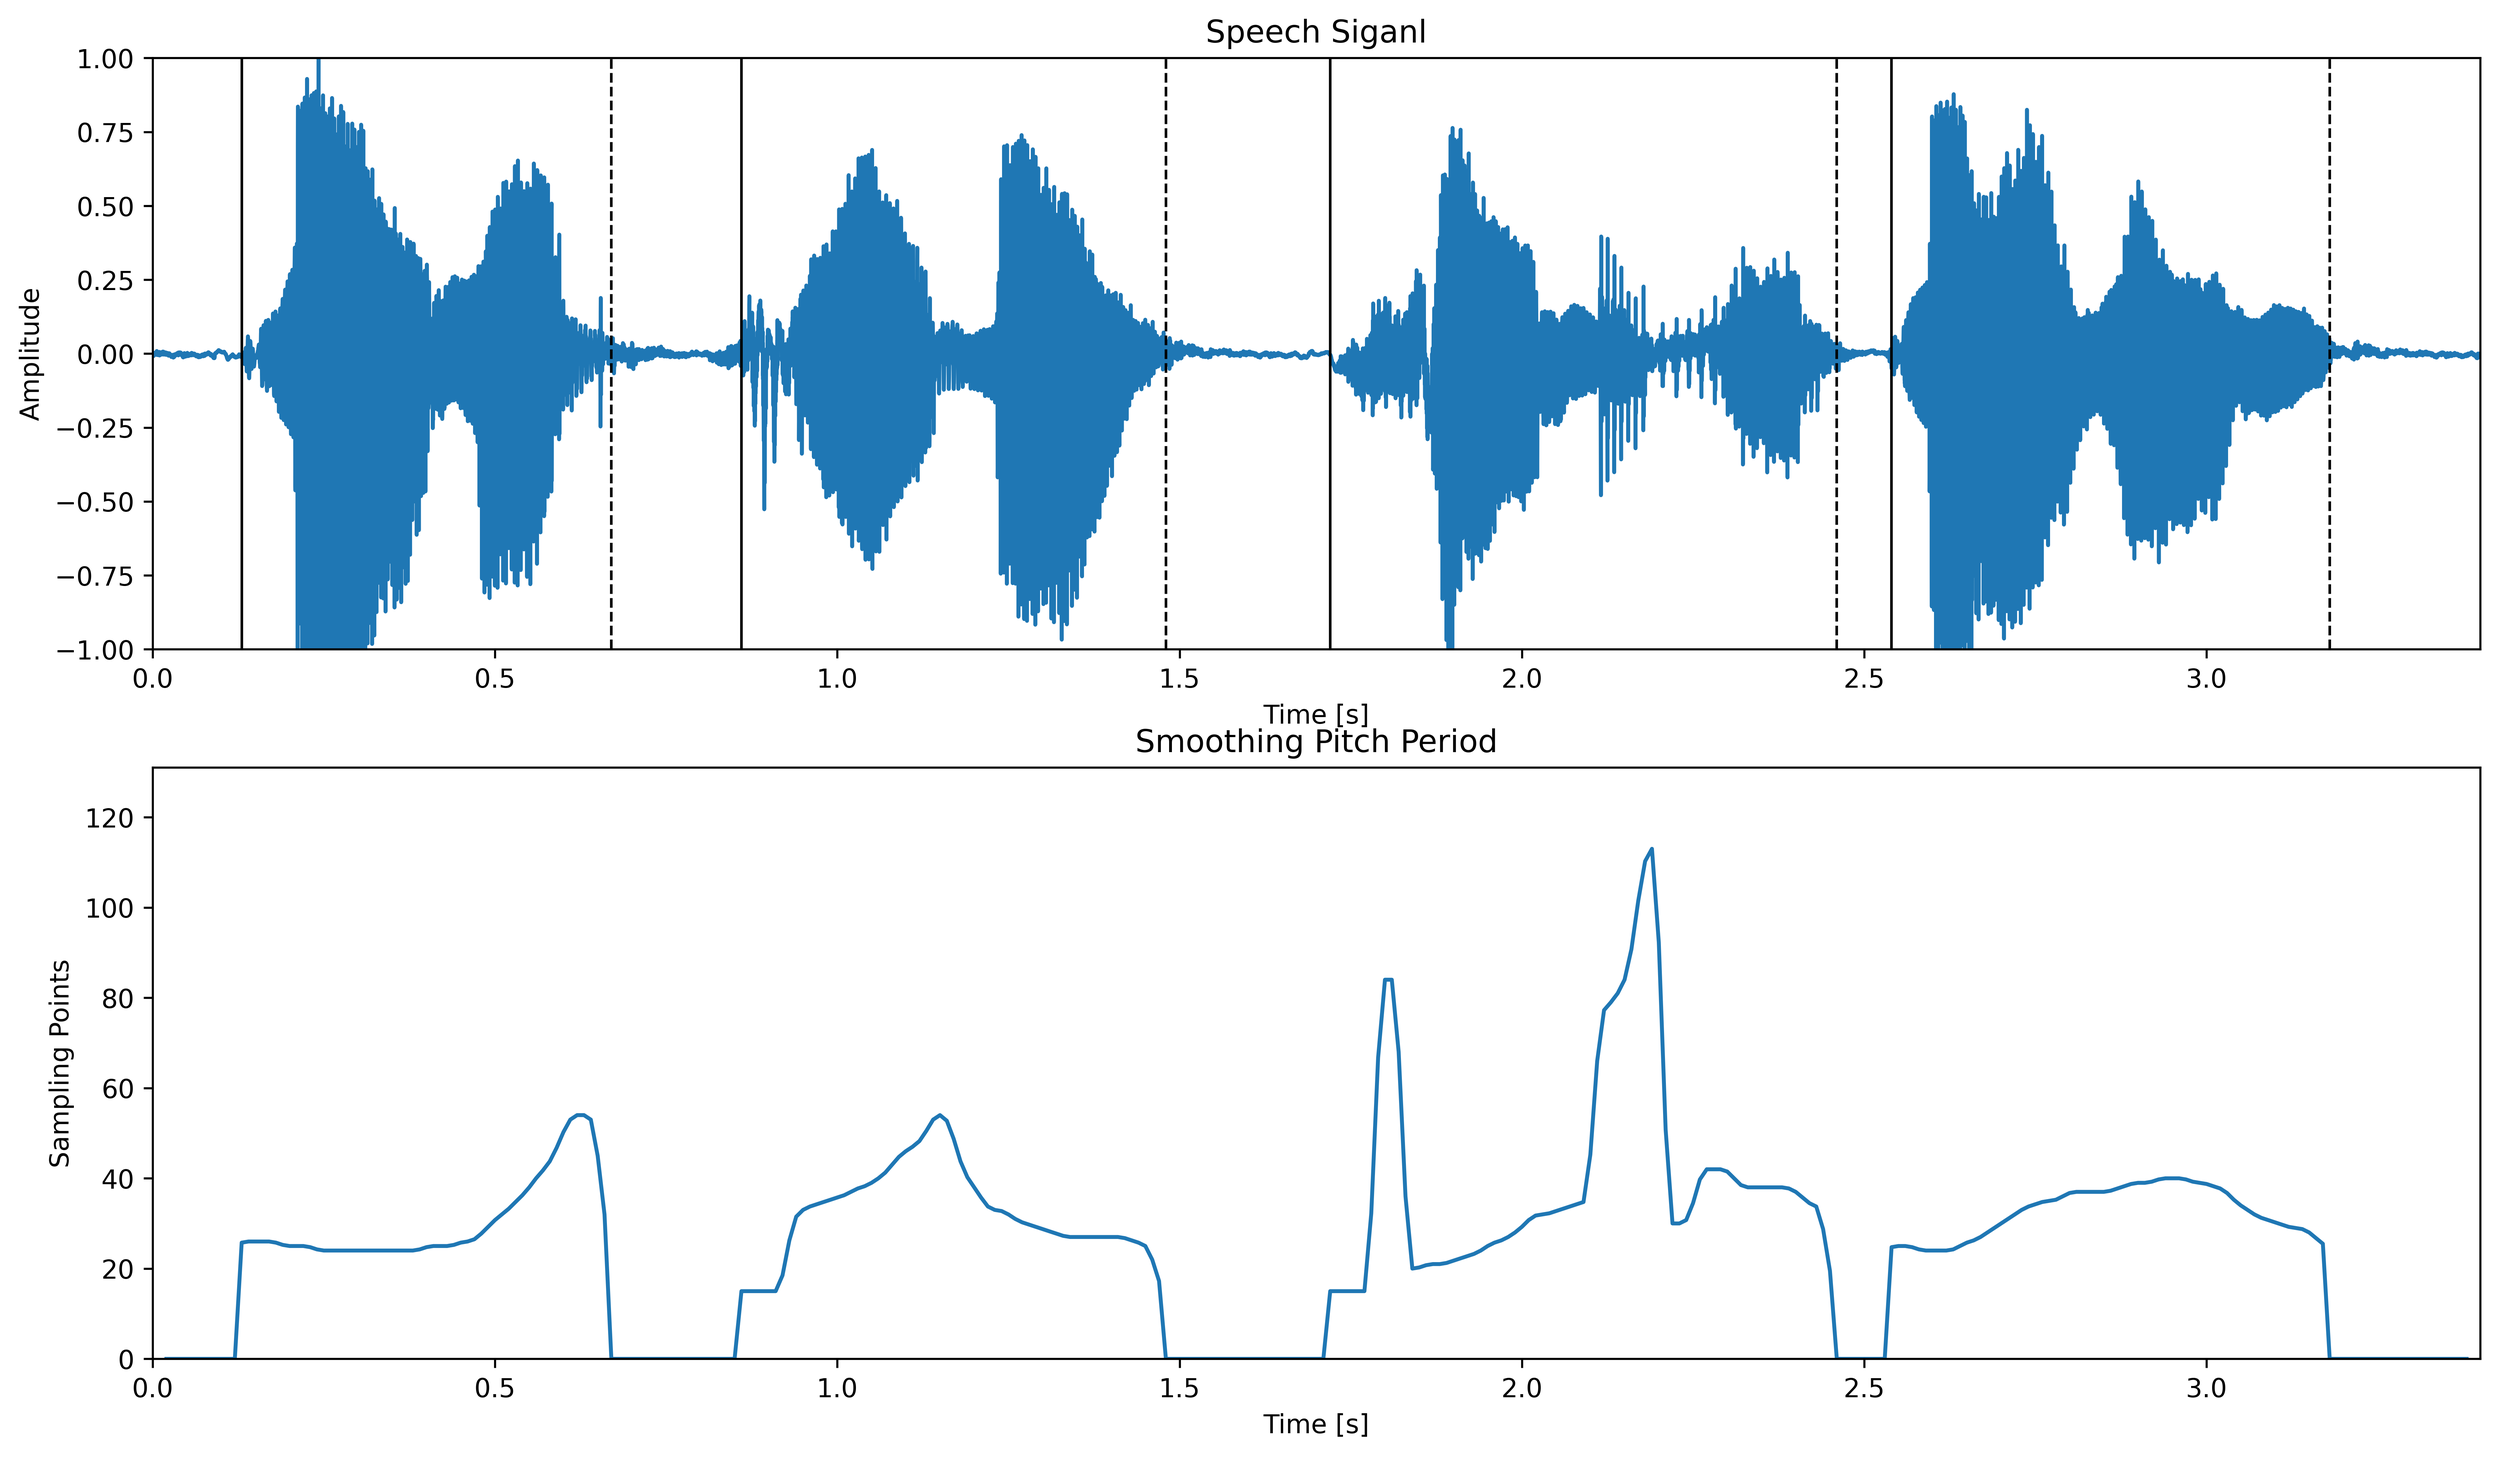
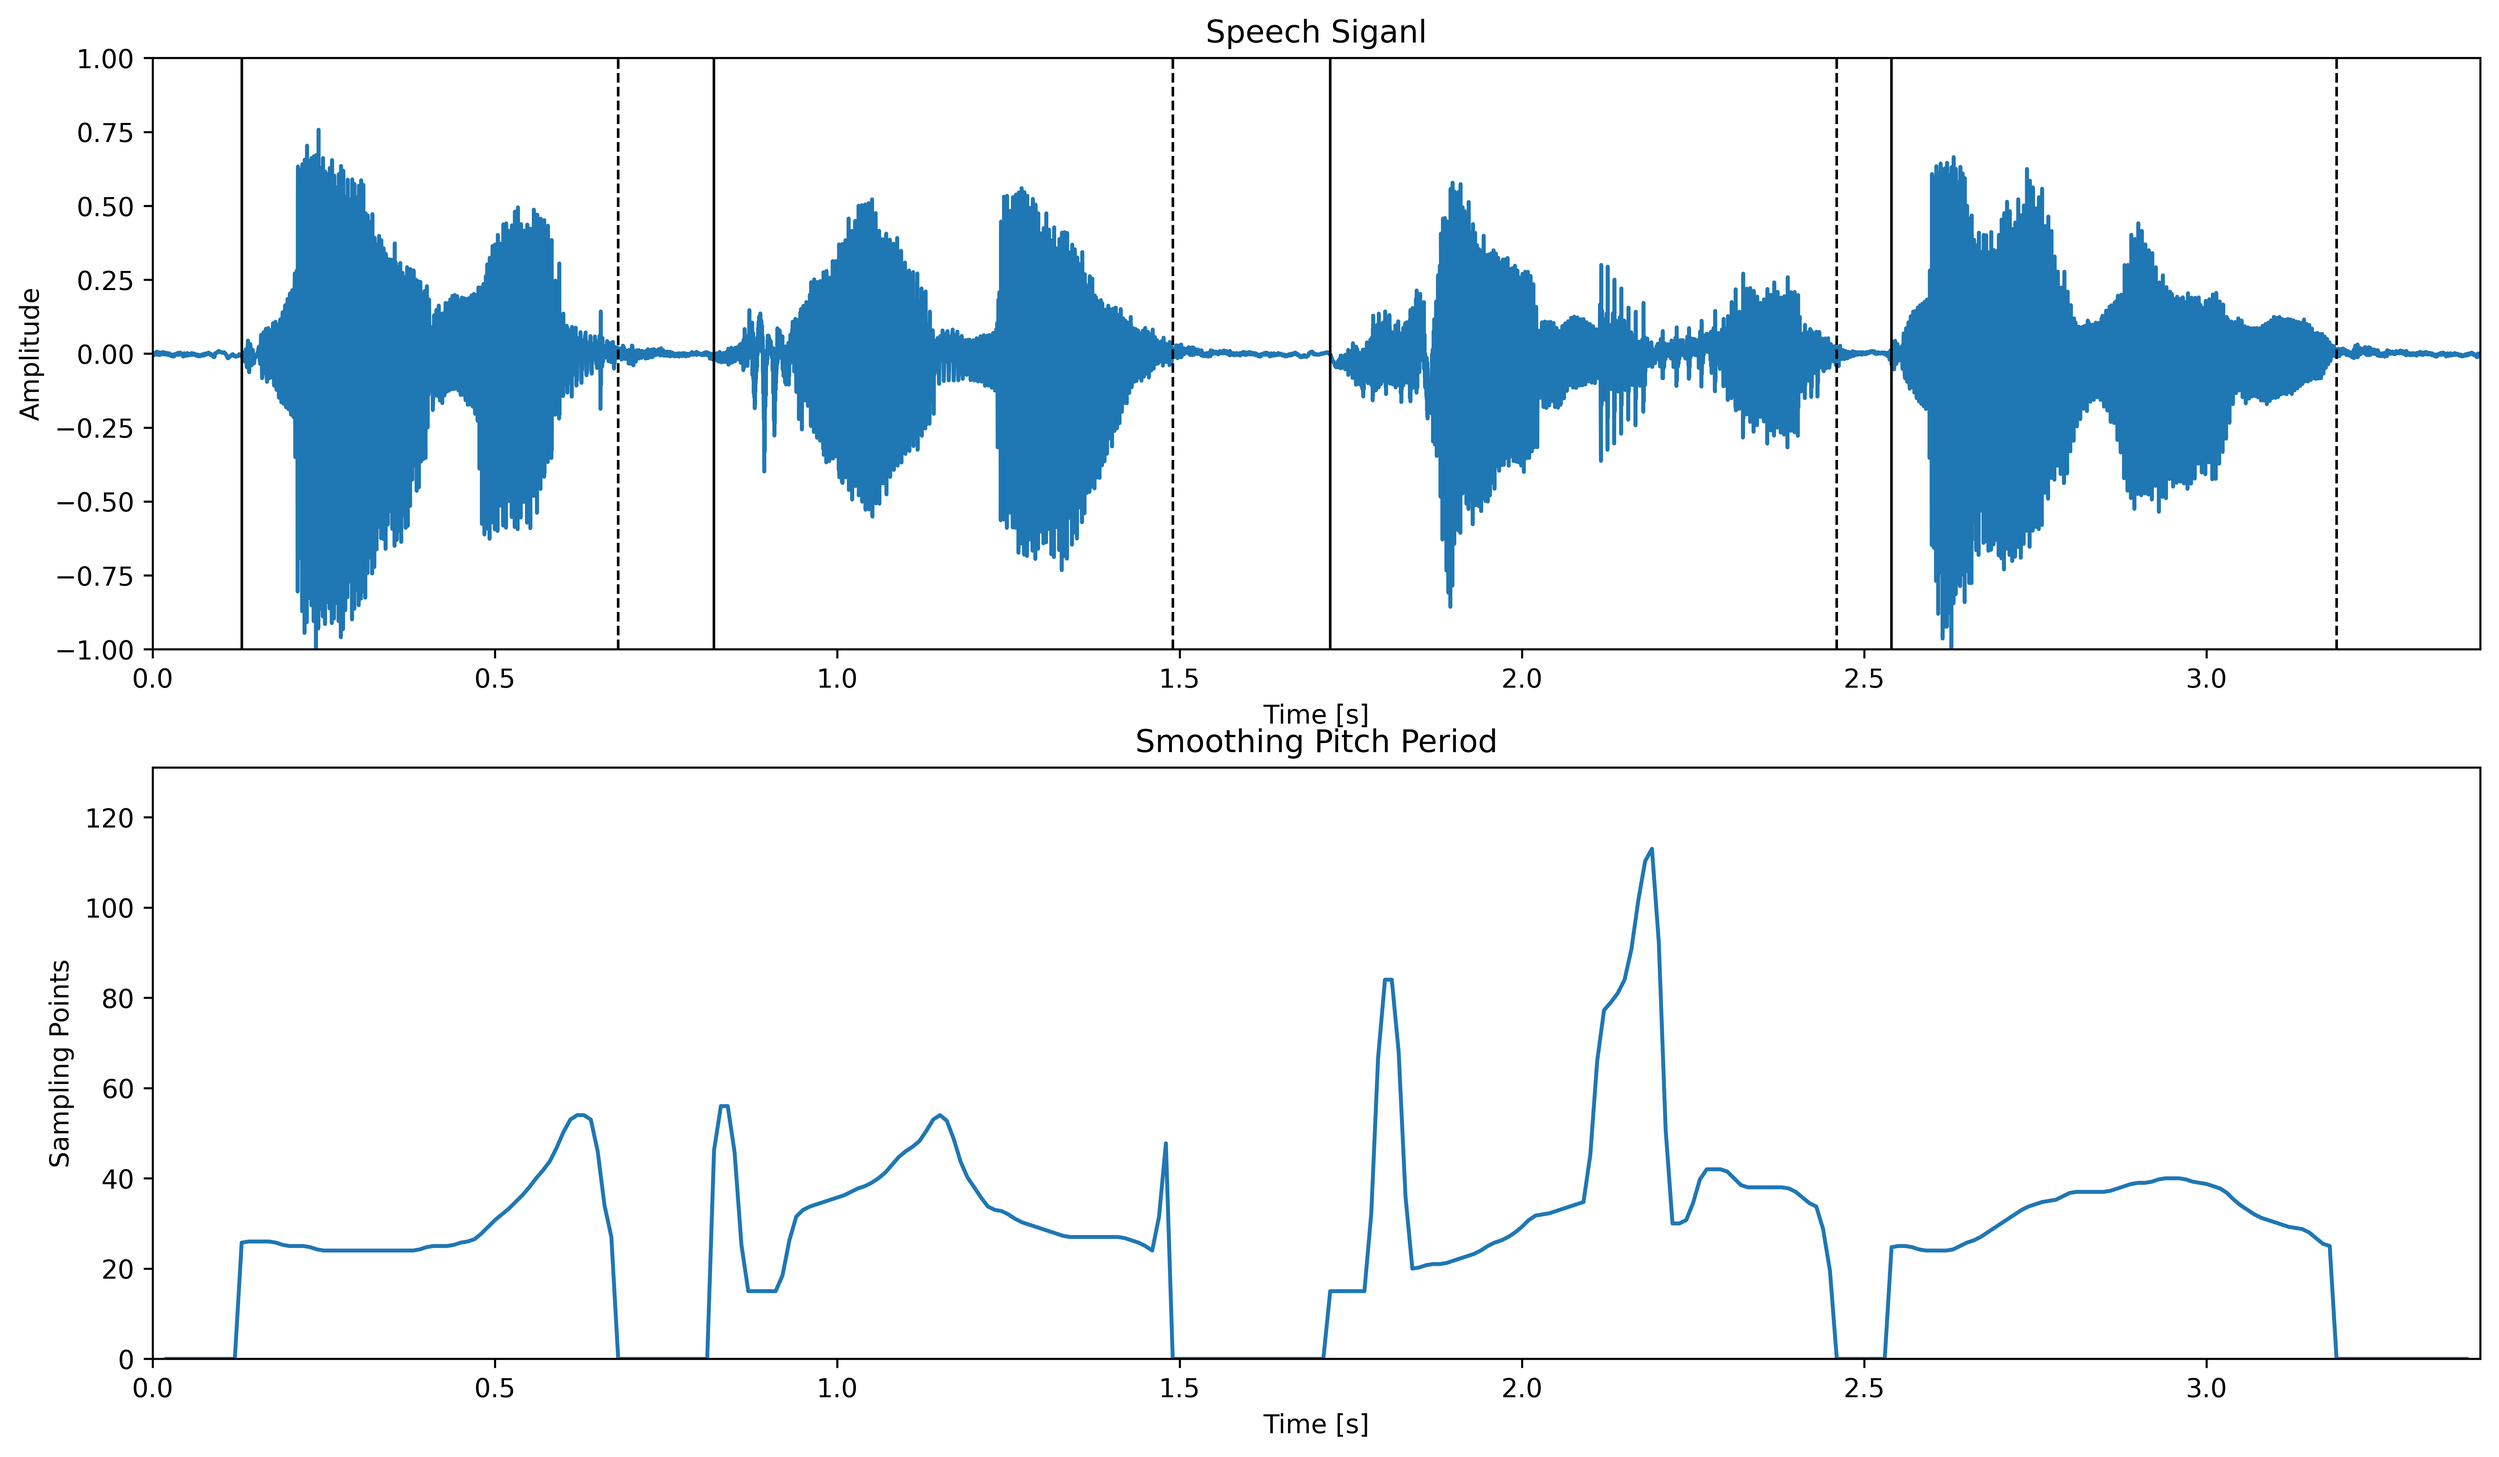
three level clip auto correlation pitch detection

diff --git a/Chapter8_PitchDetection/pr8_3_3.py b/Chapter8_PitchDetection/pr8_3_3.py
@@ -18,7 +18,7 @@ if __name__ == '__main__':
 	speech = Speech()
 	x, fs = speech.audioread(filename, 8000)
 	x = x - np.mean(x)  # DC
-	x = x / np.max(x)  # normalized
+	x = x / np.max(np.abs(x))  # normalized
 	N = len(x)
 	time = np.arange(N) / fs
 	wnd = np.hamming(wlen)  # window function
